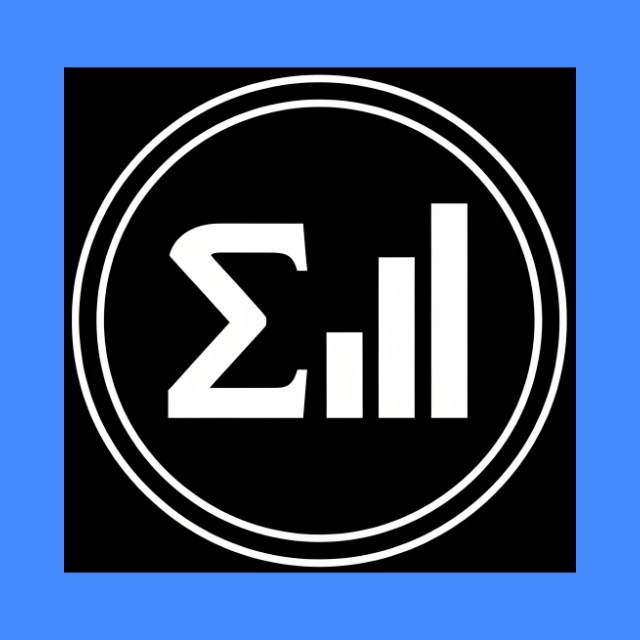
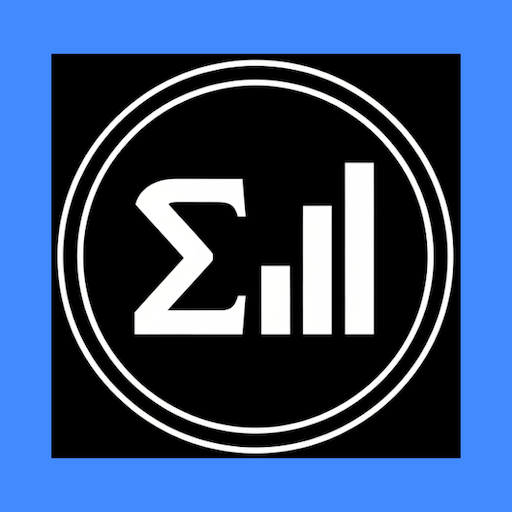
index, header , icon512 redimension for pwa

diff --git a/header.html b/header.html
@@ -252,43 +252,23 @@
             // Registrar Service Worker
             if ('serviceWorker' in navigator) {
                 window.addEventListener('load', function () {
-                    const swPaths = [
-                        'service-worker.js',  // Ruta relativa
-                        './service-worker.js' // Otra ruta relativa
-                    ];
+                    navigator.serviceWorker.register('service-worker.js')
+                        .then(function (registration) {
+                            console.log('✅ Service Worker registrado');
 
-                    function tryRegister(pathIndex) {
-                        if (pathIndex >= swPaths.length) {
-                            console.log('⚠ No se pudo registrar Service Worker');
-                            return;
-                        }
-
-                        const path = swPaths[pathIndex];
-                        navigator.serviceWorker.register(path)
-                            .then(function (registration) {
-                                console.log('✅ Service Worker registrado:', path);
-                                console.log('Scope:', registration.scope);
-
-                                // Escuchar actualizaciones
-                                registration.addEventListener('updatefound', () => {
-                                    const newWorker = registration.installing;
-                                    newWorker.addEventListener('statechange', () => {
-                                        if (newWorker.state === 'installed' && navigator.serviceWorker.controller) {
-                                            // Nueva versión disponible
-                                            showUpdateNotification();
-                                        }
-                                    });
+                            // Escuchar actualizaciones
+                            registration.addEventListener('updatefound', () => {
+                                const newWorker = registration.installing;
+                                newWorker.addEventListener('statechange', () => {
+                                    if (newWorker.state === 'installed' && navigator.serviceWorker.controller) {
+                                        showUpdateNotification();
+                                    }
                                 });
-                            })
-                            .catch(function (error) {
-                                console.log(`❌ Falló ${path}:`, error.message);
-                                // Intentar con la siguiente ruta
-                                tryRegister(pathIndex + 1);
                             });
-                    }
-
-                    // Comenzar con la primera ruta
-                    tryRegister(0);
+                        })
+                        .catch(function (error) {
+                            console.log('❌ Error registrando Service Worker:', error.message);
+                        });
                 });
             }
 
@@ -430,39 +410,6 @@
                     }
                 }, 30000);
             }
-
-            // Verificar recursos PWA
-            console.log('🔍 Verificando configuración PWA...');
-
-            // Verificar HTTPS (requerido para PWA)
-            console.log('🔐 HTTPS:', window.location.protocol === 'https:' ? '✅' : '❌ (requerido para PWA)');
         });
-    </script>
-
-    <script type="application/ld+json">
-    {
-      "@context": "https://schema.org",
-      "@type": "SoftwareApplication",
-      "name": "SigmaExacta",
-      "url": "https://sigmaexacta.com",
-      "applicationCategory": "BusinessApplication",
-      "operatingSystem": "Web Browser",
-      "offers": {
-        "@type": "Offer",
-        "price": "0",
-        "priceCurrency": "USD"
-      },
-      "description": "Professional online engineering tools for Quality Control, Six Sigma, and Process Improvement. Includes Cpk Calculator, FMEA, DOE, and Control Plans.",
-      "featureList": "Cpk Calculator, Weibull Analysis, Control Plan Creator, FMEA, Taguchi DOE, Tolerance Stack-up, QFD",
-      "softwareHelp": {
-        "@type": "CreativeWork",
-        "url": "https://sigmaexacta.com/documentation.html"
-      },
-      "author": {
-        "@type": "Organization",
-        "name": "SigmaExacta",
-        "url": "https://sigmaexacta.com"
-      }
-    }
     </script>
 </header>

diff --git a/index.html b/index.html
@@ -123,9 +123,9 @@
 </head>
 
 <body>
-    <!-- Script para cargar el header -->
+    <!-- Script para cargar el header - VERSIÓN SIMPLIFICADA -->
     <script>
-        // Cargar header.html dinámicamente
+        // Cargar header.html dinámicamente - VERSIÓN SIMPLIFICADA
         fetch('header.html')
             .then(response => {
                 if (!response.ok) throw new Error('No se pudo cargar el header');
@@ -135,16 +135,36 @@
                 // Insertar el header en el contenedor
                 document.getElementById('header-container').innerHTML = html;
 
-                // Ejecutar scripts del header
+                // Solo ejecutar scripts JavaScript, no JSON-LD
                 const scripts = document.getElementById('header-container').getElementsByTagName('script');
-                for (let script of scripts) {
-                    const newScript = document.createElement('script');
-                    if (script.src) {
-                        newScript.src = script.src;
-                    } else {
-                        newScript.textContent = script.textContent;
+                const scriptsArray = Array.from(scripts);
+
+                for (let script of scriptsArray) {
+                    // Solo procesar scripts que sean JavaScript (no JSON-LD)
+                    const scriptType = script.getAttribute('type');
+                    if (!scriptType || scriptType === 'text/javascript') {
+                        const newScript = document.createElement('script');
+
+                        // Copiar atributos
+                        if (script.src) {
+                            newScript.src = script.src;
+                        }
+
+                        // Copiar contenido si no es src
+                        if (!script.src && script.textContent) {
+                            newScript.textContent = script.textContent;
+                        }
+
+                        // Copiar otros atributos
+                        for (let attr of script.attributes) {
+                            if (attr.name !== 'src' && attr.name !== 'textContent') {
+                                newScript.setAttribute(attr.name, attr.value);
+                            }
+                        }
+
+                        document.head.appendChild(newScript);
                     }
-                    document.head.appendChild(newScript);
+                    // Los scripts JSON-LD ya están en el DOM, no necesitan ejecutarse
                 }
             })
             .catch(error => {
@@ -163,6 +183,7 @@
     <div id="header-placeholder"></div>
     <div id="header-container"></div>
 
+    <!-- Resto del contenido permanece igual -->
     <noscript>
         <nav>
             <a href="/">Home</a> |
